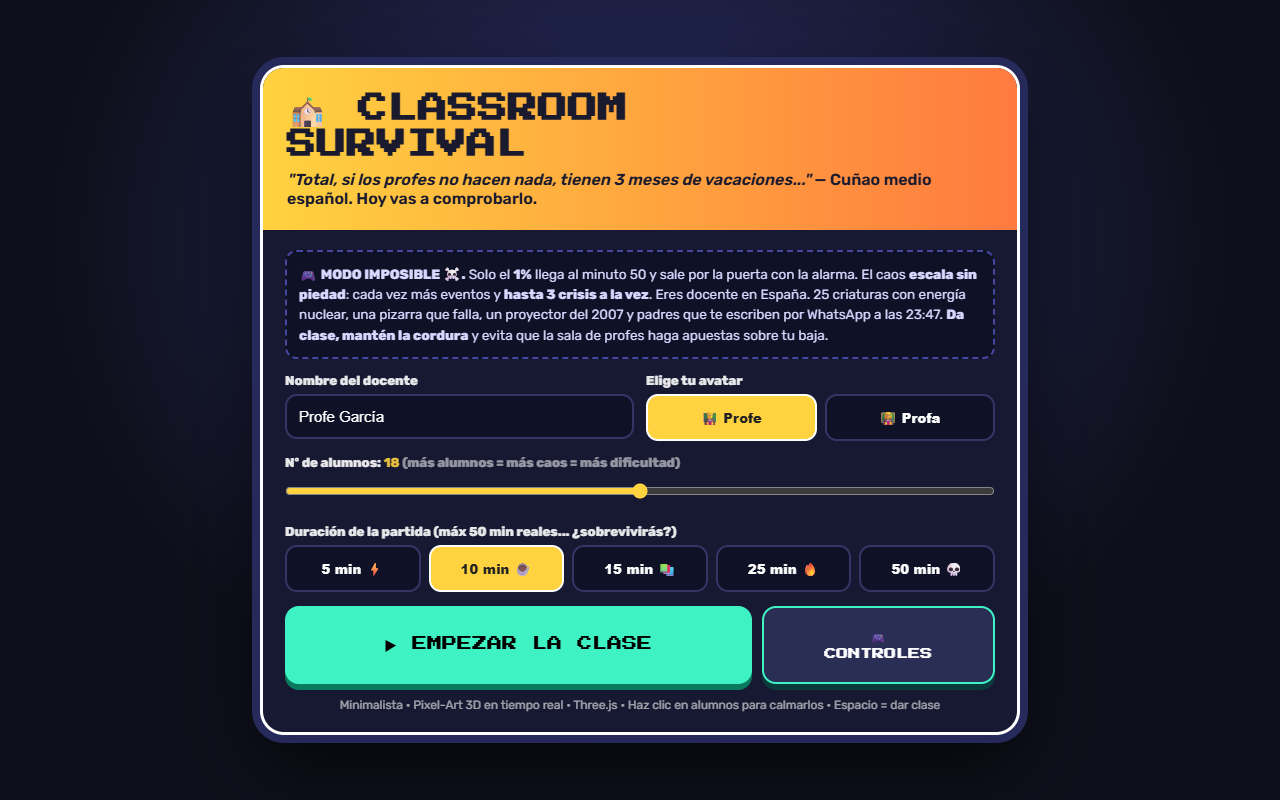
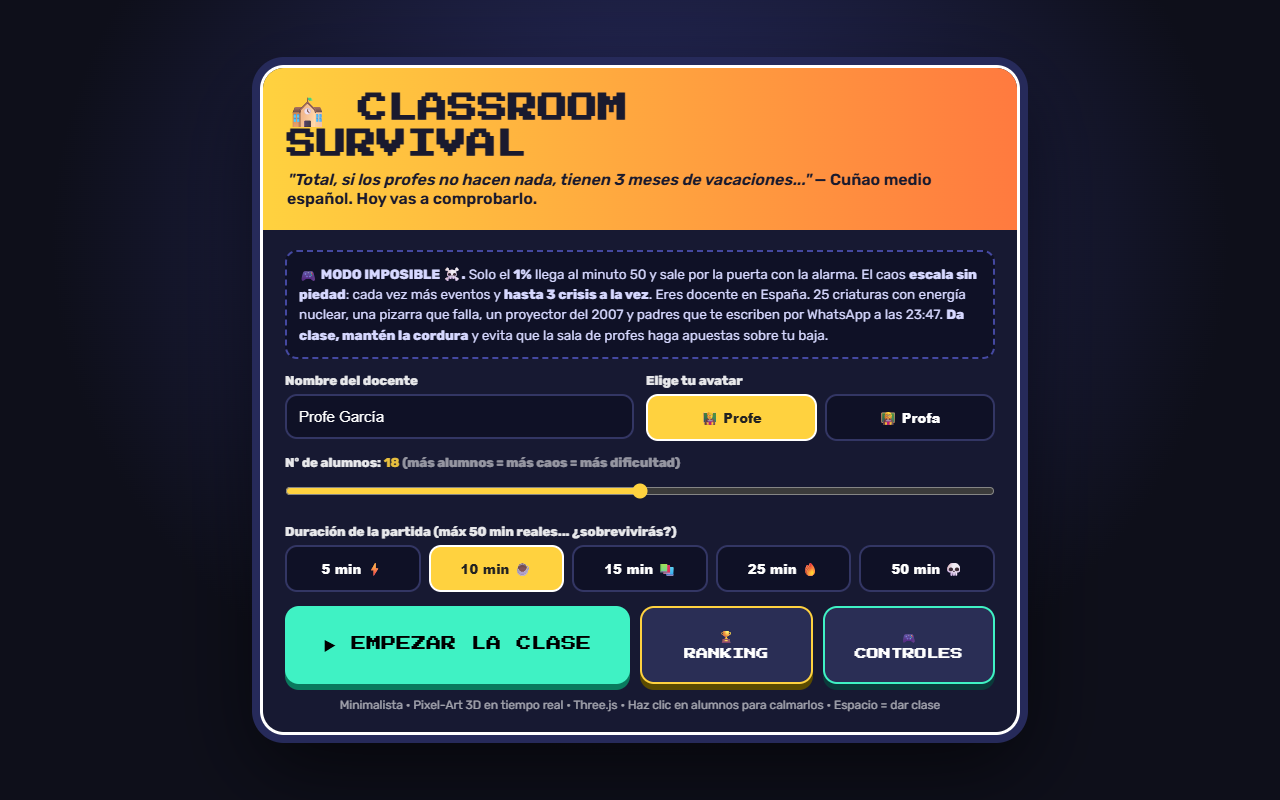
📝 README al día: aula viva, ranking Back4App, capturas nuevas

Changed region(s): [[0.25, 0.75, 0.75, 0.875]]

diff --git a/README.md b/README.md
@@ -12,6 +12,8 @@ Sin instalación, sin registro. Solo necesitas internet la primera vez (Three.js
 
 ![Partida en curso](docs/img/partida.png)
 
+![Ranking mundial](docs/img/ranking.png)
+
 ## 🎯 Objetivo
 
 * **Da clase** para subir el **📚 Conocimiento** del alumnado.
@@ -41,6 +43,12 @@ Estornudos sónicos, llantos por una goma con forma de unicornio, el de *"¿pued
 * ☕ **Café de sala de profes** — ansiedad −35 de golpe, pero 30 s de tembleque enseñando peor.
 * 📢 **Voz de trueno** — 10 s de silencio total... seguidos de 20 s de rebote de caos x2.
 
+### El aula vive
+
+* 🧑🏫 El profe y su mesa están **al frente, en un costado junto a la pizarra**, mirando a sus fieras. Si escribes en la pizarra, camina hasta ella y vuelve.
+* 🟩 **Pupitres verde colegio** de toda la vida, con su silla a juego.
+* 🚪 La **puerta se abre de verdad**: tiene hueco, marco y pasillo oscuro detrás. Quien cruza el umbral (visitantes, salidas al baño, tu salida triunfal del 1 %) **se desvanece** en vez de atravesar madera.
+
 ### El alumnado tiene memoria
 
 * 😈 **Repetidor** (gorra roja): lía 3 veces más.
@@ -63,12 +71,15 @@ Al terminar cada partida recibes una **puntuación**: conocimiento ×10 + minuto
 
 Tu marca se envía sola al **ranking mundial** (pestañas por duración: 5/10/15/25/50 min + general) y se guarda tu mejor marca local. Botón **🏆 RANKING** en la pantalla inicial y al final de cada partida.
 
+Backend **Back4App (Parse)**: las claves del juego son públicas por diseño; la seguridad real está en el servidor (permisos estrictos + validación en `cloudcode.js`): cualquiera puede leer el top y registrar marcas válidas, pero nadie puede editar ni borrar nada.
+
 ## 🛠 Tecnologías
 
-* Un solo `index.html` (~78 KB de JS), sin build ni dependencias instaladas.
+* Un solo `index.html` (~99 KB de JS), sin build ni dependencias instaladas.
 * Render 3D minimalista pixel-art en tiempo real con **Three.js** (importado por CDN como ES module).
-* Sonido y música chiptune 100 % **Web Audio API** procedural: 14 efectos + banda sonora que se tensa con tu estrés. Sin ficheros de audio.
-* Estado, físicas de juguetes (papeles, balones, confeti) y escalado de dificultad, todo en vanilla JS.
+* Sonido y música chiptune 100 % **Web Audio API** procedural: casi 20 efectos (tiza, timbre, router, proyector...) + banda sonora que se tensa con tu estrés. Sin ficheros de audio.
+* Estado, físicas de juguetes (papeles, balones, confeti), escalado de dificultad y ranking, todo en vanilla JS + SDK de Parse por CDN.
+* Ranking en **Back4App**: tabla `Scores`, permisos a nivel de fila y validación en `cloudcode.js` (desplegado desde este repo).
 
 ## ⚠ Nota
 
